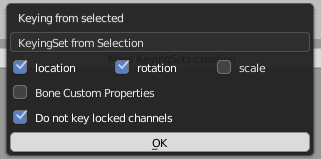
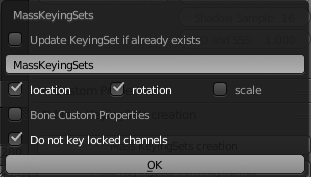
Update MassKeyingSet to version 0.2.0

diff --git a/_tools/2016-08-07-mass_keyingsets-fr.md b/_tools/2016-08-07-mass_keyingsets-fr.md
@@ -34,14 +34,19 @@ Ce panneau est visible uniquement :
 * En mode *pose* sur une armature, quand au moins un os est sélectionné  
 * En mode *object*, quand au moins un objet est sélectionné  
 
-Quand on clique sur le bouton, une popup permet de choisir quelles sont les informations que l'on veut stocker dans le *KeyingSet*.  
+Quand on clique sur le premier bouton, une popup permet de choisir quelles sont les informations que l'on veut stocker dans le *KeyingSet*.  
 Il y a 2 popup différentes, suivant que l'on soit en mode *pose* ou *object*.    
 
 ![Bones]({{site.base_url}}/assets/img/MassKeyingSets/popup_bones.png)  
 <br/>
-![Objects]({{site.base_url}}/assets/img/MassKeyingSets/popup_objects.png)
+![Objects]({{site.base_url}}/assets/img/MassKeyingSets/popup_objects.png)  
+
+Quand on cliques sur le 2ème bouton, le _KeyingSet_ est créé à partir de toutes les propriétés ayant déjà une animation dans la scène (position, rotation, mise à l'échelle pour les objects, mais également propriétés personnalisées)
 
 ## Options
+
+# Mise à jour  
+Si l'option est coché, le _KeyingSet_ présent dans le _nom_ sera mis à jour (au lieu de créer un nouveau _KeyingSet_)
 
 # Nom  
 
@@ -66,6 +71,15 @@ Au niveau *Mesh* pour un objet avec maillage, au niveau *Curve* pour une courbe,
 
 ## Comment rapporter un bug ou demander une nouvelles fonctionnalité ?
 Vous pouvez le faire sur le [Tracker][2]
+
+## Historique des versions
+*  __v0.1.0__, 9 août 2016: Version initiale
+*  __v0.2.0__, 22 septembre 2018:  
+    *  Bugs corrigés:
+      *  Les mises à l'échelle _lockés_ sont maintenant pris en compte correctement
+    *  Nouvelles fonctionnalités:
+      *  Un _KeyingSet_ peut maintenant être mis à jour
+      *  Création de _KeyingSet_ depuis les propriétés déjà animées
 
 [1]: {{site.base_url}}/fr/AddonInstallation/
 [2]: https://github.com/julienduroure/MassKzeyingSets/issues/

diff --git a/_tools/2016-08-07-mass_keyingsets.md b/_tools/2016-08-07-mass_keyingsets.md
@@ -34,14 +34,19 @@ A new panel is added on Scene properties (with other KeyingSets stuff), only whe
 * You are in pose mode on armature, with at least one bone selected  
 * You are in object mode, with at least one object selected  
 
-When you click on button, a popup lets you choose what you want to put into keyingset.  
+When you click on the first button, a popup lets you choose what you want to put into keyingset.  
 There is two different popup, depending on mode you are (pose mode or object mode)  
 
 ![Bones]({{site.base_url}}/assets/img/MassKeyingSets/popup_bones.png)  
 <br/>
 ![Objects]({{site.base_url}}/assets/img/MassKeyingSets/popup_objects.png)  
 
+When you click on second buttin, a KeyingSet is created, based on all properties already keyed (animated) in your scene.
+
 ## Options
+
+# Update
+If checked, the KeyingSet will be updated (instead of creation of a new keyingset)
 
 # Name  
 
@@ -66,6 +71,15 @@ At mesh level for mesh objects, curve data for bezier curves, etc...
 
 ## How to report bugs or request new features ?
 You can report bugs on [Issue Tracker][2]
+
+## Version history
+*  __v0.1.0__, 2016 august, 9th: initial release
+*  __v0.2.0__, 2018 september, 22nd:  
+    *  Bug fixing:
+      *  Do not add keyingset for lock scale
+    *  New features:
+      *  A KeyingSet can now be updated
+      *  Creation of KeyingSet from existing keyframed
 
 [1]: {{site.base_url}}/en/AddonInstallation/
 [2]: https://github.com/julienduroure/MassKeyingSets/issues/
